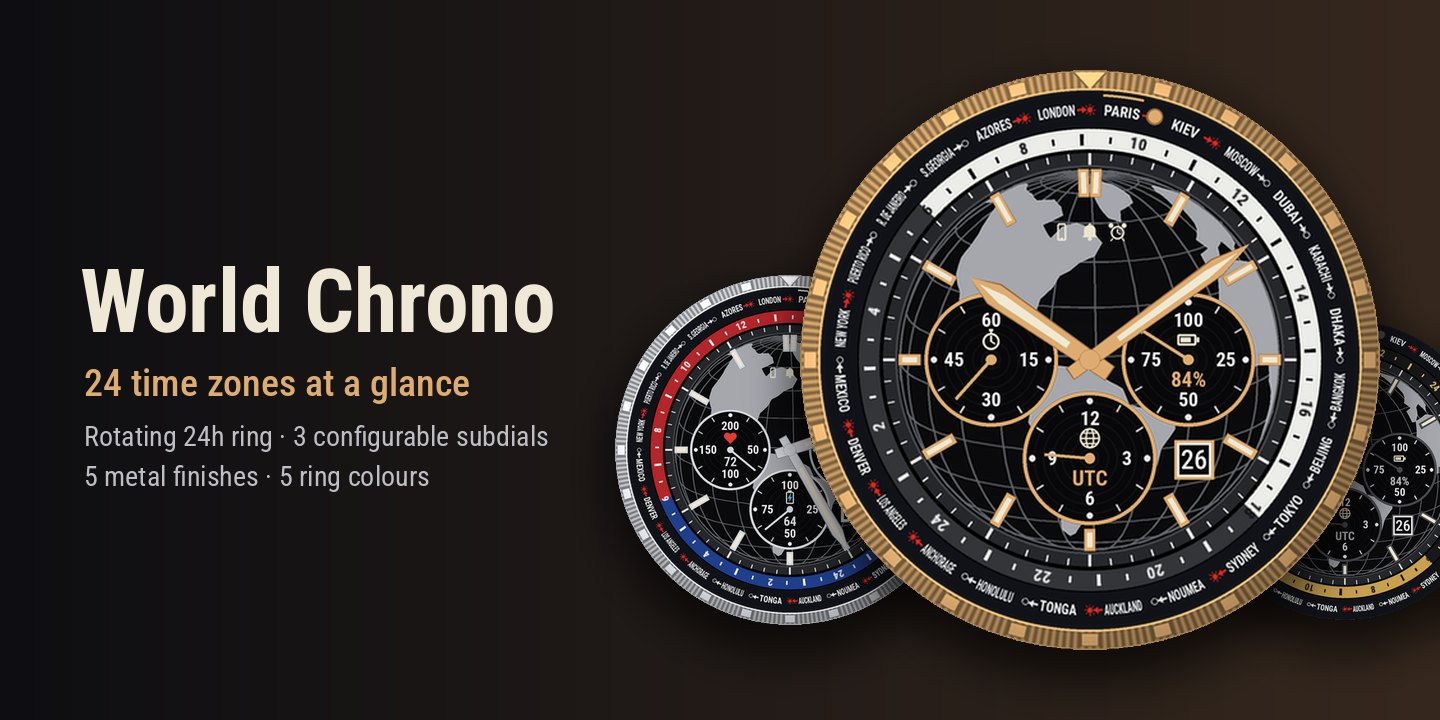
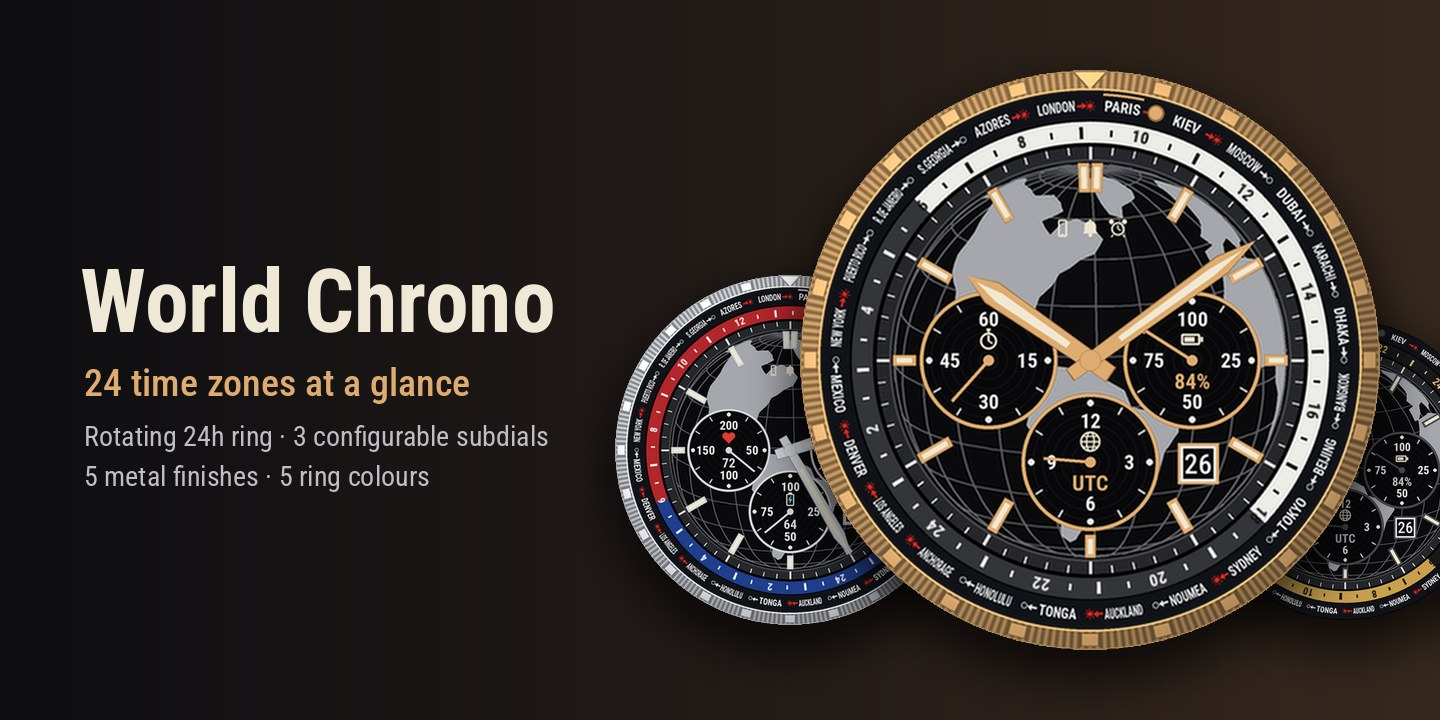
README, .gitignore und deutsches Hero-Bild für World Chrono

Changed region(s): [[0.4375, 0.1222, 1.0, 0.8556]]

diff --git a/README.md b/README.md
@@ -1,0 +1,58 @@
+# Website – Watchfaces & Apps (GitHub Pages)
+
+Dieser Ordner ist die **lokale Kopie des öffentlichen GitHub-Repositorys `WatchFace`**
+(Benutzer `HeAtsszeen`, Adresse `https://heatsszeen.github.io/WatchFace/`).
+Alles hier ist öffentlich – **niemals** `keygen.html`, geheime Schlüssel oder Projektdateien hier ablegen.
+
+## Aufbau
+
+```
+Website/
+├── index.html            Übersicht aller Watchfaces und Apps (6 Sprachen), Impressum, Datenschutz
+│                         + Weiterleitung alter My-Memories-Links (…/WatchFace/?id=…) nach mymemories/
+├── mymemories/
+│   └── index.html        Freischaltseite My Memories (3,49 €) – unveränderte Kopie der bisherigen Seite
+├── worldchrono/
+│   └── index.html        Freischaltseite World Chrono (1,99 €)
+└── assets/
+    ├── mymemories/       hero_de.jpg, hero_en.jpg
+    └── worldchrono/      hero.jpg, icon.png
+```
+
+Adressen nach dem Hochladen:
+- Übersicht: `https://heatsszeen.github.io/WatchFace/`
+- My Memories: `https://heatsszeen.github.io/WatchFace/mymemories/?id=XXXX-XXXX`
+  (die in der App eingebaute alte Adresse `…/WatchFace/?id=…` leitet automatisch hierher weiter)
+- World Chrono: `https://heatsszeen.github.io/WatchFace/worldchrono/?id=XXXX-XXXX` (so in `License.mc` eingetragen)
+
+## Hochladen (GitHub im Browser)
+
+1. github.com → Repository `WatchFace` öffnen.
+2. **Add file → Upload files** → den **Inhalt** dieses Ordners hineinziehen (`index.html`, die Ordner
+   `mymemories`, `worldchrono`, `assets`; `README.md` darf mit). Vorhandene `index.html` wird ersetzt – das ist gewollt.
+3. **Commit changes**.
+4. Nach 1–2 Minuten testen:
+   - `https://heatsszeen.github.io/WatchFace/` → Übersicht
+   - `https://heatsszeen.github.io/WatchFace/?id=B602-D74A` → muss auf die My-Memories-Seite weiterleiten
+   - `https://heatsszeen.github.io/WatchFace/worldchrono/?id=B602-D74A` → World-Chrono-Seite mit ID
+
+> Pfade unterscheiden Groß-/Kleinschreibung (`/WatchFace/`, Ordner klein).
+
+## Neue App hinzufügen
+
+1. Ordner `<appname>/` anlegen (klein, ohne Leerzeichen) und `worldchrono/index.html` als Vorlage kopieren.
+2. In der Kopie ändern: Titel/Namen (alle 6 Sprachen), Preis, `PAYPAL_ME` (Betrag), `APP_NAME`, Icon-Pfad,
+   Datenschutz Punkt 7 (was die App auf der Uhr tut), Widerrufsformular (App-Name).
+3. Bilder nach `assets/<appname>/`.
+4. In `index.html` im Skript einen Eintrag in `APPS` ergänzen (Name, Preis, Texte, Bild, Store-Link).
+5. In der App: `UNLOCK_URL = "https://heatsszeen.github.io/WatchFace/<appname>/"`.
+
+## Store-Links eintragen
+
+Sobald eine App im Connect IQ Store ist: in `index.html` bei `APPS` das Feld `store` mit dem Store-Link füllen.
+Solange es leer ist, zeigt die Karte „Bald im Connect IQ Store“.
+
+## Preise ändern
+
+Freischaltseite: alle Preisangaben in den Texten und `PAYPAL_ME` (z. B. `.../1.99EUR`), dazu der Eintrag in `APPS` in `index.html`.
+In der App: `PriceText` in den Sprachdateien (World Chrono: `tools/gen_strings.py`).
